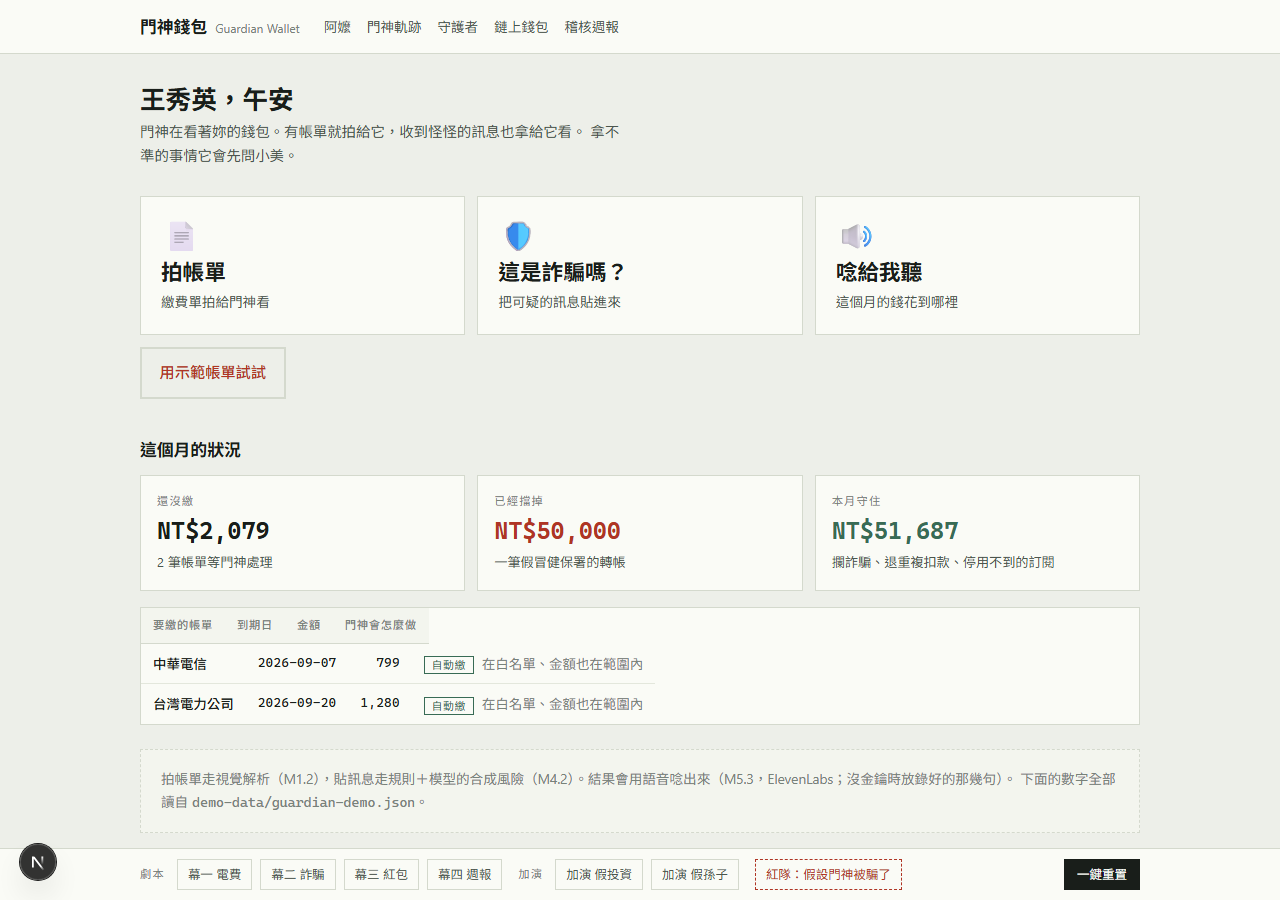
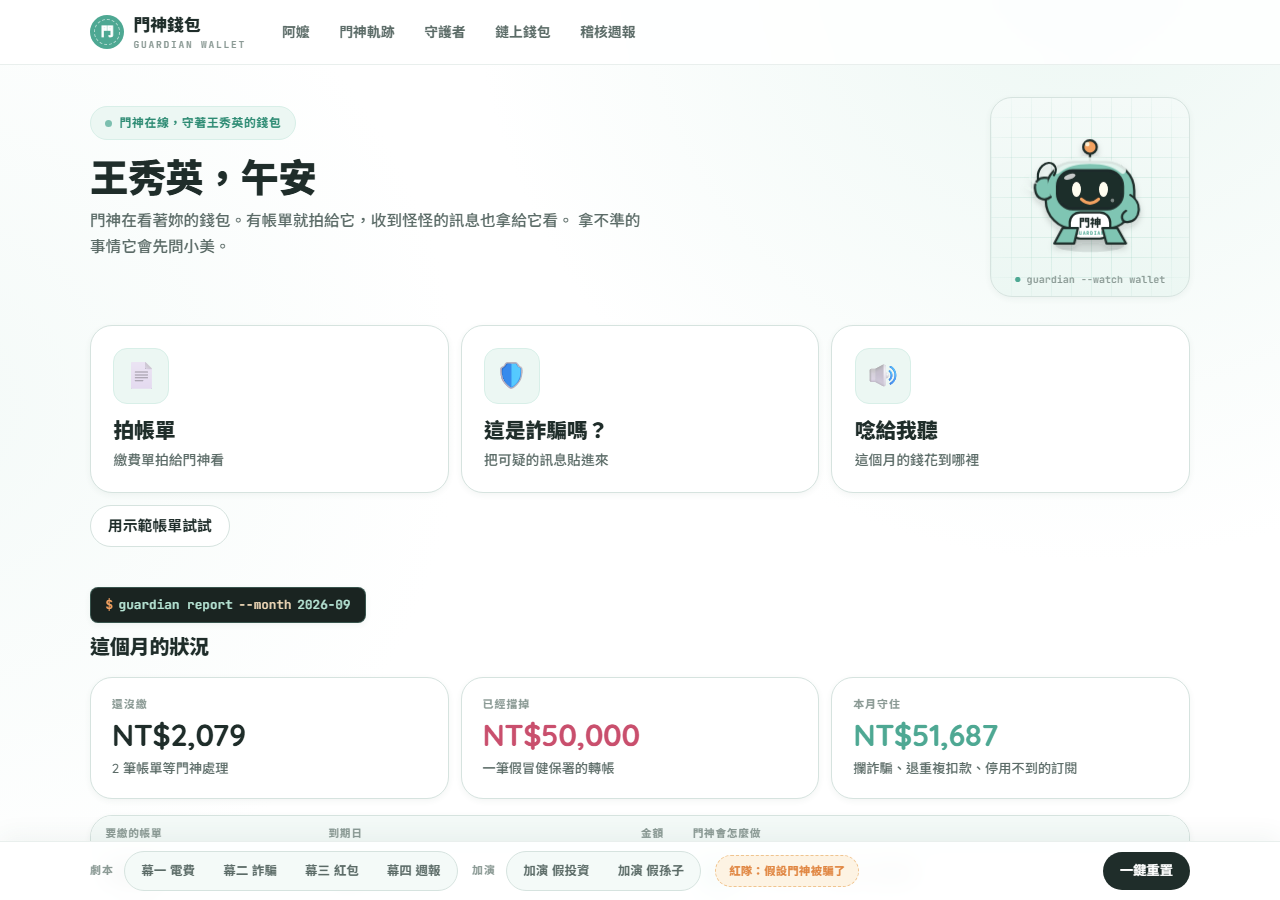
README 八張截圖換成新介面；帳單預覽卡不再被拉高
截圖用 headless Edge + DevTools 重拍（1280 寬，安靜時段先清掉，幕一才是綠卡）：
01 阿嬤頁、02 幕一自動繳（含帳單照片）、03 幕二攔截、04 軌跡即時卡、
05 幕三等家人、06 守護者待核准、07 錢包 Hardhat 本地鏈（合約地址與交易雜湊）、
08 週報 51,687。內容與舊圖對應，只是換了皮。

阿嬤頁的帳單預覽卡加 self-start：原本跟右邊的判決欄同高，圖下面留一大塊白。

Claude-Session: https://claude.ai/code/session_01SULPPNsPo1EFMgiT1J838s

diff --git a/src/components/ElderConsole.tsx b/src/components/ElderConsole.tsx
@@ -366,7 +366,7 @@ export default function ElderConsole() {
       {result?.ok && f && i && (
         <div className="mt-4 grid gap-4 lg:grid-cols-[minmax(0,15rem)_1fr]">
           {preview && (
-            <div className="card overflow-hidden p-0">
+            <div className="card self-start overflow-hidden p-0">
               {/* eslint-disable-next-line @next/next/no-img-element */}
               <img src={preview} alt="剛剛送出的帳單" className="block w-full" />
             </div>
